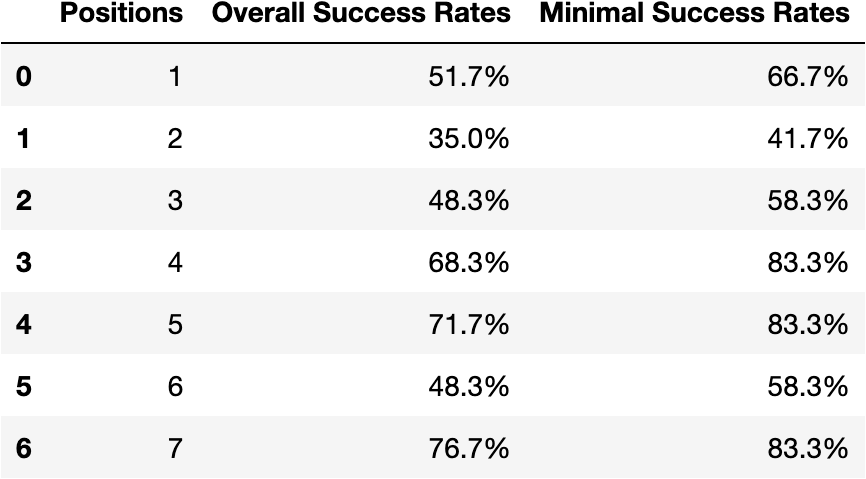
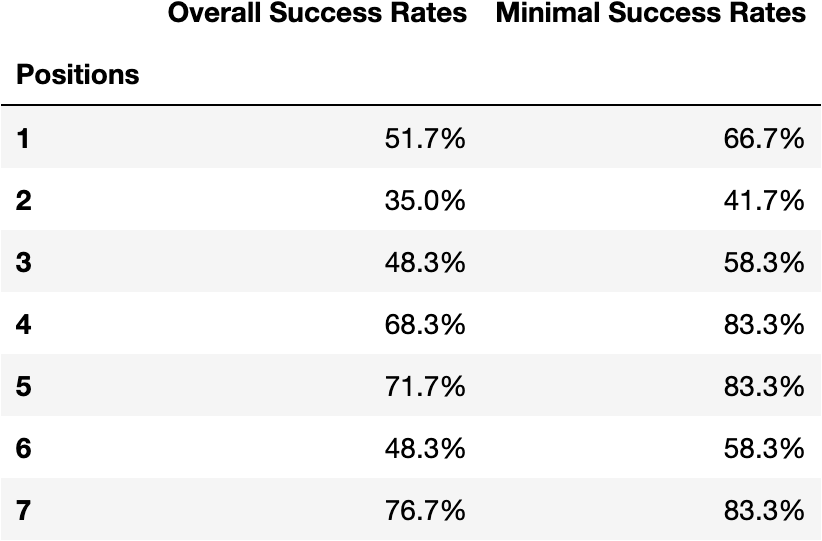
Adding improvements to environment testing results

diff --git a/scripts/test_results/df_to_png.py b/scripts/test_results/df_to_png.py
@@ -18,7 +18,7 @@ for i in range(1,8):
     df = df.reset_index()
     df = df.drop('index', axis=1)
     for j in range(0,12):
-        df['id'][j] = j
+        df['id'][j] = j+1
 
     df.columns = ['Cup #', 'Cup Success Rate']
     df['Overall Success Rate'] = ''
@@ -28,6 +28,7 @@ for i in range(1,8):
     print(df)
     print(overall_success_rate)
     print(minimal_success_rate)
+    df.set_index('Cup #', inplace=True)
     df_styled = df.style.background_gradient() #adding a gradient based on values in cell
     dfi.export(df_styled,'position_' + str(i) + '_.png')
 
@@ -37,6 +38,7 @@ for i in range(1,8):
 positions = [1,2,3,4,5,6,7]
 df = pd.DataFrame({'Positions': positions, 'Overall Success Rates': overall_success_rate_list,
                    'Minimal Success Rates': minimal_success_rate_list})
+df.set_index('Positions', inplace=True)
 
 # df_styled = df.style.background_gradient() #adding a gradient based on values in cell
 df.to_pickle('overall_results.pkl')
